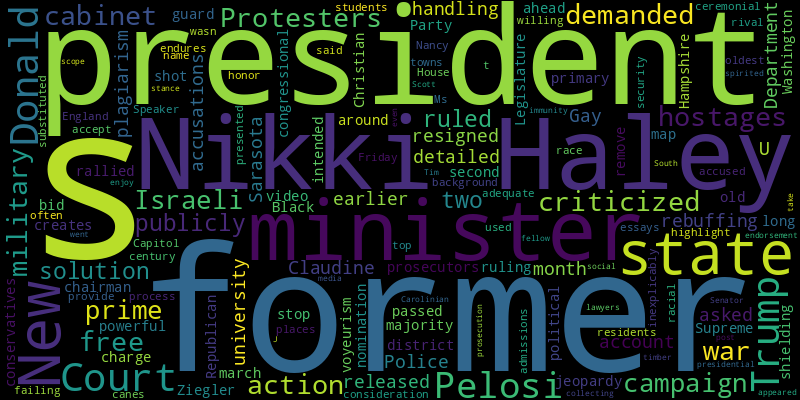
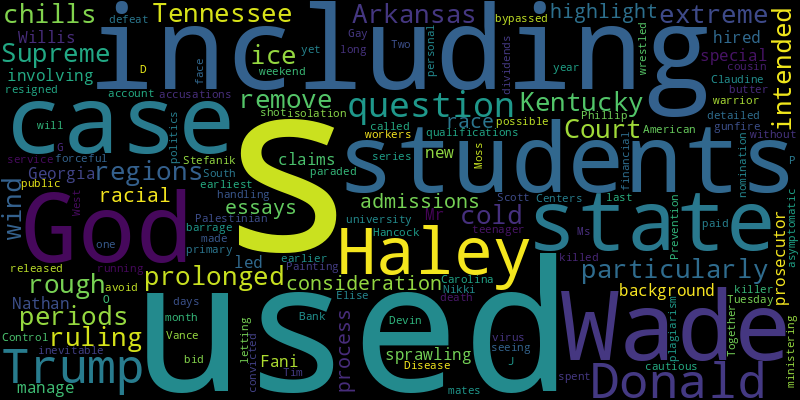
chore(bot): 🙈 auto commit

diff --git a/README.md b/README.md
@@ -2,32 +2,35 @@
 Auto RSS New York Times and Generate Word Cloud
 
 ## New York Times Global News
+* Rising temperatures and retreating glaciers threaten Europe’s water tower, forcing local farmers to adapt and presaging larger troubles downstream.
+* An intensification of nuclear threats from North Korea while the world is preoccupied with other wars has ignited an urgent debate over Mr. Kim’s motives.
+* Although he dons different personas, the strongman bona fides of Prabowo Subianto date back to when Indonesia was a dictatorship ruled by his former father-in-law.
+* A police officer who seriously injured a 22-year-old Black man with a baton during an arrest in 2017 was convicted, but given only a suspended sentence.
+* A senior Iranian intelligence official was killed in an Israeli strike in Damascus as U.S. troops came under attack in Iraq.
 * Will deepening skepticism about the United States as a trustworthy nation diminish Taiwan’s belief that it could fend off China?
 * Some Israeli commanders said the government’s two main goals were mutually incompatible. To eradicate Hamas, the military would have to engage in a lengthy war that would most likely cost the hostages’ lives.
 * Kharkiv, in northern Ukraine, is under almost daily bombardment. Radio Boiling Over serves as a megaphone for residents’ fears and frustrations.
 * News of a secret meeting among extremists to discuss mass deportations, including of citizens from immigrant backgrounds, has shaken the society.
-* Iran said an Israeli airstrike on Damascus killed two senior intelligence figures in Iran’s powerful Revolutionary Guards and two other members of the force, according to a semiofficial news agency.
 * Prosecutors believe a painting the deputy culture minister, Vittorio Sgarbi, put on display in 2021 was in fact stolen in 2013. He says it’s a different copy.
-* Kim Kwang-ho, charged with negligence, is one of the most senior officials to face legal consequences for the October 2022 disaster that killed nearly 160 people in Seoul.
-* The private school is for kindergarten and elementary school pupils. Though many details of the disaster remained unclear, it drew widespread attention on China’s internet.
-* Iran’s long history of building up proxy forces that fight its enemies around the region, as well as its conflicts with separatist and terrorist groups, have played into a spate of recent conflicts.
-* Lt. Gen. Mohamed Hamdan was greeted by African leaders as if he had already won Sudan’s civil war. His forces have secretly been armed by the United Arab Emirates, an as-yet unpublished U.N. report found.
 
 ![Global](./global.png)
 ## New York Times United States News
-* Protesters demanded action to free hostages, a war cabinet minister criticized the military campaign and the Israeli prime minister publicly ruled out a two-state solution, rebuffing the U.S.
-* The university released its most detailed account of its handling of plagiarism accusations against Claudine Gay, who resigned earlier this month.
-* But the Sarasota Police Department has asked prosecutors to charge the former chairman, Christian Ziegler, with video voyeurism.
-* The Legislature passed a congressional map that creates a second majority-Black district while shielding the state’s most powerful conservatives in Washington from political jeopardy.
-* The old guard of the Republican Party has rallied around Nikki Haley ahead of New Hampshire’s primary, in a long-shot bid to stop the former president’s march to the nomination.
+* The extreme cold has been particularly rough for regions not used to prolonged periods of ice and wind chills, including Tennessee, Kentucky and Arkansas.
 * The Supreme Court’s ruling intended to remove the consideration of race during the admissions process. So students used their essays to highlight their racial background.
-* For over a century, towns in New England have presented their oldest residents with ceremonial canes. In some places, the honor endures — for those willing to accept it, that is.
-* Donald Trump has often accused former House Speaker Nancy Pelosi of failing to provide adequate security for the Capitol. On Friday, he inexplicably substituted Nikki Haley’s name for Ms. Pelosi’s.
-* The former president said his top rival, Nikki Haley, wasn’t “presidential timber,” after collecting the spirited endorsement of her fellow South Carolinian, Senator Tim Scott.
-* In a social media post, Donald J. Trump appeared to take a stance that went even further than his lawyers have in court about the scope of immunity from prosecution that a president should enjoy.
+* The claims involving Fani Willis and Nathan Wade, the special prosecutor she hired to manage the sprawling case in Georgia, have led to new questions about Mr. Wade’s qualifications.
+* The university released its most detailed account of its handling of plagiarism accusations against Claudine Gay, who resigned earlier this month.
+* A Palestinian-American teenager was killed by a barrage of gunfire in the West Bank. A cousin called him “a warrior of God.”
+* On the last weekend before the state’s primary on Tuesday, Nikki Haley made her most forceful case yet in her long-shot bid to defeat Donald Trump for the G.O.P. nomination.
+* Painting himself as inevitable, and seeing who will butter him up the most, Donald Trump has paraded a series of possible running mates, including Tim Scott, Elise Stefanik and J.D. Vance.
+* Two of the most cautious states have bypassed the Centers for Disease Control and Prevention by letting students and workers who have the virus but are asymptomatic avoid isolation.
+* From her earliest days in South Carolina politics, Ms. Haley’s public service paid personal financial dividends.
+* Devin Moss spent a year ministering to convicted killer Phillip Hancock. Together, they wrestled with one question: How to face death without God.
 
 ![US](./usnews.png)
 ## New York Times Asia News
+* An intensification of nuclear threats from North Korea while the world is preoccupied with other wars has ignited an urgent debate over Mr. Kim’s motives.
+* Although he dons different personas, the strongman bona fides of Prabowo Subianto date back to when Indonesia was a dictatorship ruled by his former father-in-law.
+* The Royal Botanic Gardens, Kew, hailed pinanga subterranea, a palm native to the island, as a discovery, but it has long been known to local Indigenous people.
 * Will deepening skepticism about the United States as a trustworthy nation diminish Taiwan’s belief that it could fend off China?
 * Kim Kwang-ho, charged with negligence, is one of the most senior officials to face legal consequences for the October 2022 disaster that killed nearly 160 people in Seoul.
 * The private school is for kindergarten and elementary school pupils. Though many details of the disaster remained unclear, it drew widespread attention on China’s internet.
@@ -35,8 +38,5 @@ Auto RSS New York Times and Generate Word Cloud
 * Relatives of victims of the 2002 attack are expected to describe their loss to a U.S. military jury sentencing two Malaysian prisoners.
 * An activist received 50 years in prison for sharing TV and film content on social media that violated the country’s law against defaming its monarchy.
 * Tetsuko Kuroyanagi has been one of Japan’s best-known entertainers for seven decades. At 90, she’s still going strong.
-* For two years, Pakistan has struggled with economic and political crises, an increase in militant attacks and souring relations with another neighbor, Afghanistan.
-* People with personal ties to China, on a tour to see Taiwan’s election up close, learned of the island’s path to democracy — messy, violent and, ultimately, inspiring.
-* Also, corruption accusations in Singapore.
 
 ![Asian](./asian.png)
